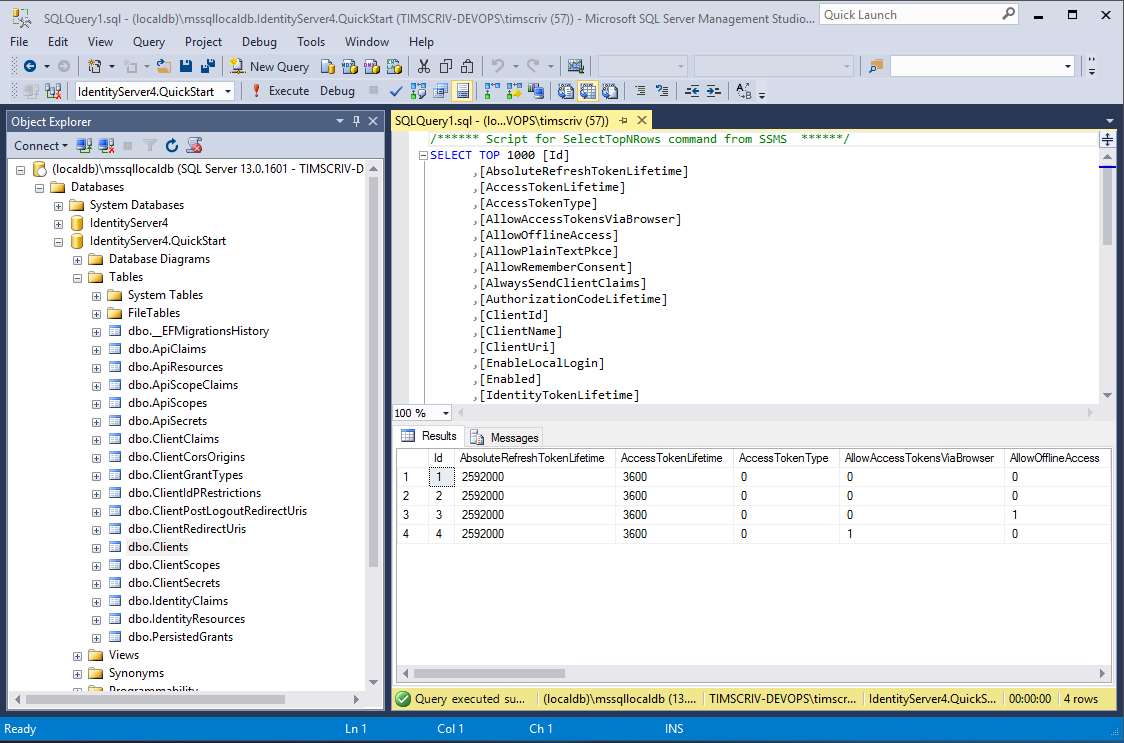
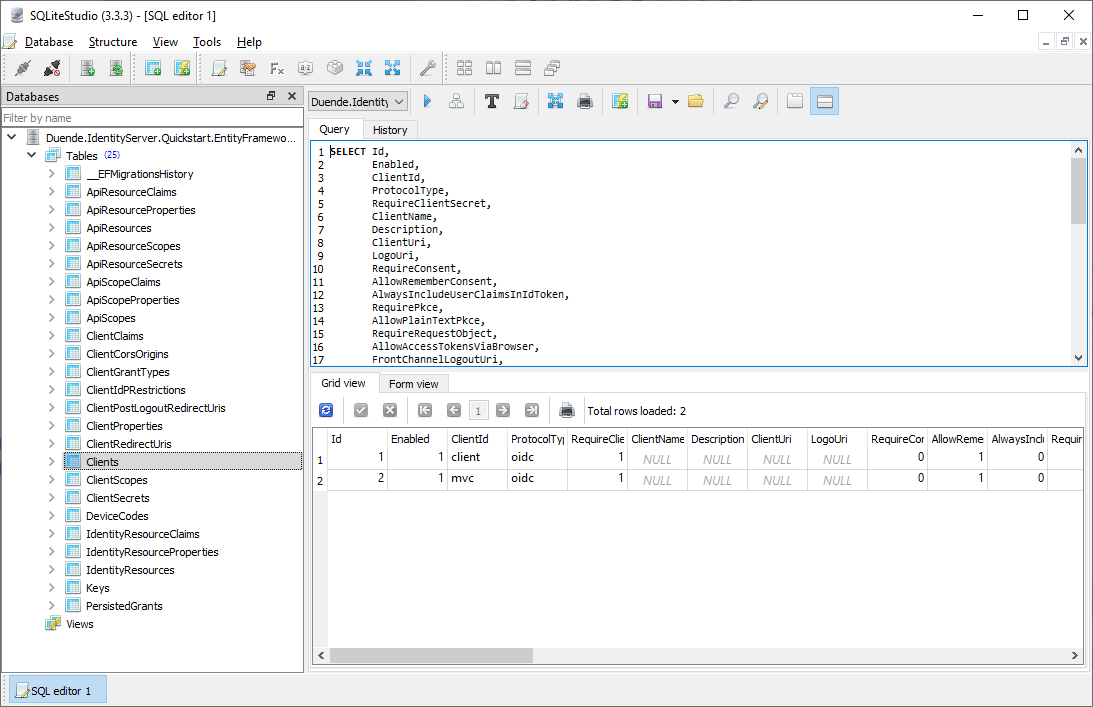
update EF QS to use Sqlite

diff --git a/IdentityServer/v5/docs/content/quickstarts/4_ef.md b/IdentityServer/v5/docs/content/quickstarts/4_ef.md
@@ -15,7 +15,7 @@ If we wanted to modify this configuration data, we had to stop and start Identit
 IdentityServer also generates temporary data, such as authorization codes, consent choices, and refresh tokens.
 By default, these are also stored in-memory.
 
-To move this data into a database that is persistent between restarts and across multiple IdentityServer instances, we can use the IdentityServer4 Entity Framework library.
+To move this data into a database that is persistent between restarts and across multiple IdentityServer instances, we can use the Duende IdentityServer Entity Framework library.
 
 {{% notice note %}}
 In addition to manually configuring EF support, there is also an IdentityServer template to create a new project with EF support, using *dotnet new isef*.
@@ -33,11 +33,13 @@ You can find the extension methods to register them in your IdentityServer in th
 
     dotnet add package Duende.IdentityServer.EntityFramework
 
-## Using SqlServer
-For this quickstart, we will use the LocalDb version of SQLServer that comes with Visual Studio.
-To add SQL Server support to our IdentityServer project, you’ll need the following nuget package::
+## Using Sqlite
+For this quickstart, we will use Sqlite as the database provider.
+Of course, given EntityFramework Core's flexibility, you can adjust this quickstart to use any EF supported provider.
 
-    dotnet add package Microsoft.EntityFrameworkCore.SqlServer
+To add Sqlite support to our IdentityServer project, you’ll need the following nuget package::
+
+    dotnet add package Microsoft.EntityFrameworkCore.Sqlite
 
 ### Database Schema Changes and Using EF Migrations
 The *Duende.IdentityServer.EntityFramework.Storage* Nuget package contains entity classes that map from Duende IdentityServer’s models.
@@ -58,18 +60,18 @@ These methods each require a *DbContextOptionsBuilder*, meaning your code will l
 
 ```cs
 var migrationsAssembly = typeof(Startup).GetTypeInfo().Assembly.GetName().Name;
-const string connectionString = @"Data Source=(LocalDb)\MSSQLLocalDB;database=IdentityServer.Quickstart.EntityFramework;trusted_connection=yes;";
+const string connectionString = @"Data Source=Duende.IdentityServer.Quickstart.EntityFramework.db";
 
 services.AddIdentityServer()
     .AddTestUsers(TestUsers.Users)
     .AddConfigurationStore(options =>
     {
-        options.ConfigureDbContext = b => b.UseSqlServer(connectionString,
+        options.ConfigureDbContext = b => b.UseSqlite(connectionString,
             sql => sql.MigrationsAssembly(migrationsAssembly));
     })
     .AddOperationalStore(options =>
     {
-        options.ConfigureDbContext = b => b.UseSqlServer(connectionString,
+        options.ConfigureDbContext = b => b.UseSqlite(connectionString,
             sql => sql.MigrationsAssembly(migrationsAssembly));
     });
 ```
@@ -170,7 +172,7 @@ public void Configure(IApplicationBuilder app)
 ```
 
 Now if you run the IdentityServer project, the database should be created and seeded with the quickstart configuration data.
-You should be able to use SQL Server Management Studio or Visual Studio to connect and inspect the data.
+You should be able to use a tool like SQL Lite Studio to connect and inspect the data.
 
 ![](../images/ef_database.png)
 
